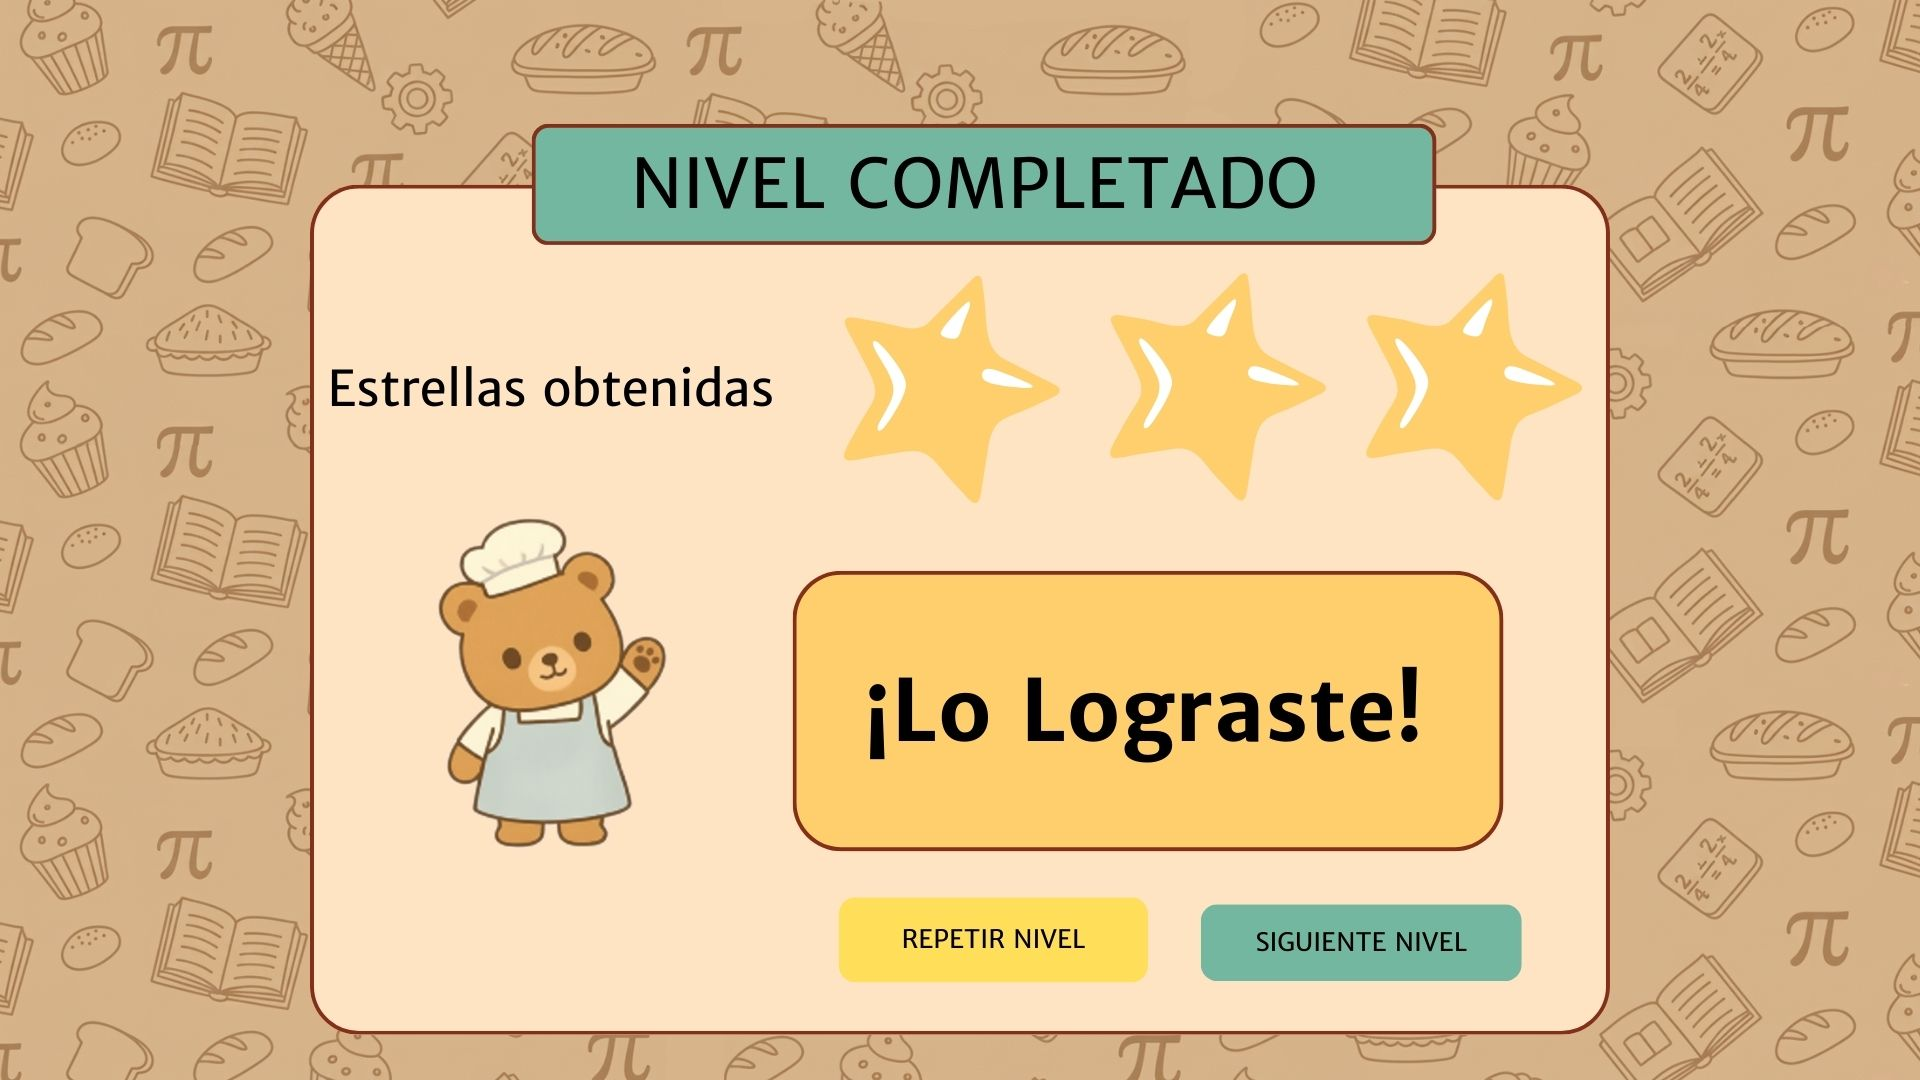
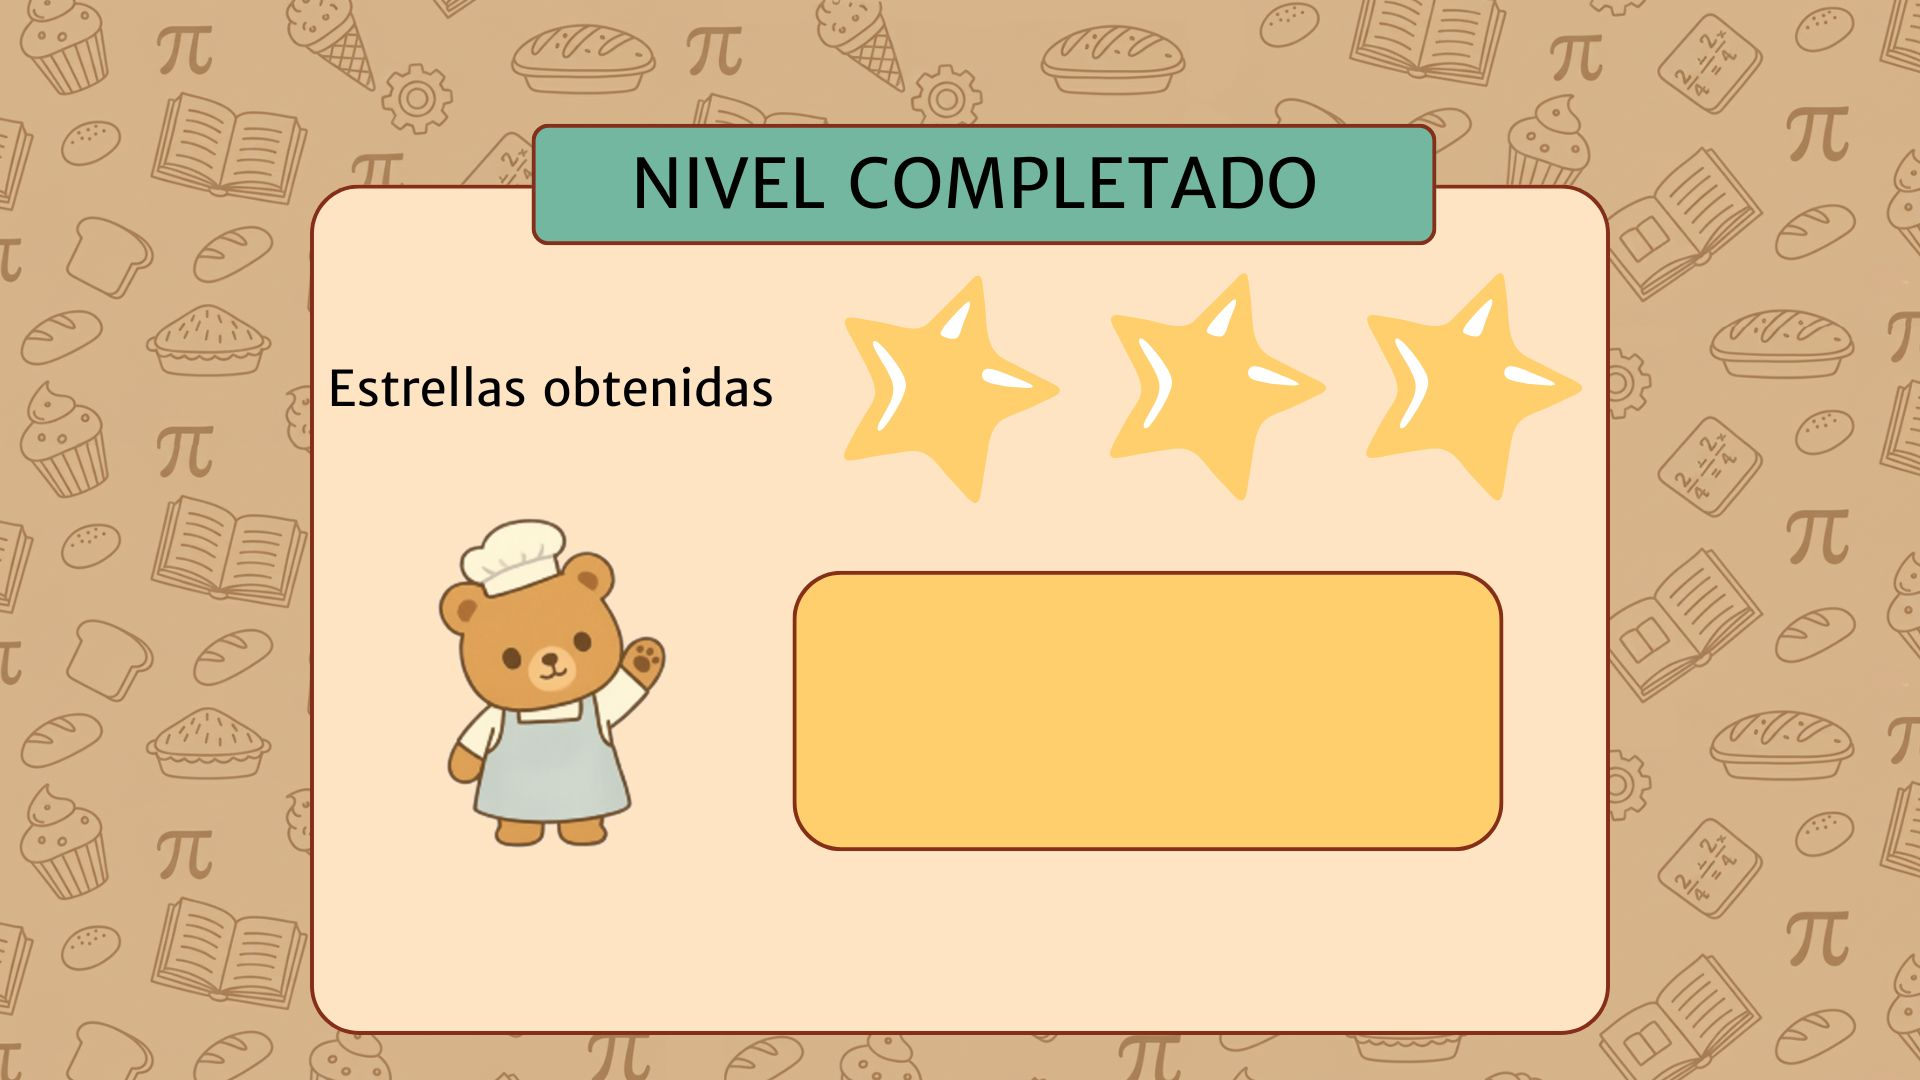
se implementan la logica de carga de niveles de la segunda dimension, ya los botones funcionan

Changed region(s): [[0.4375, 0.825, 0.8125, 0.9167], [0.4375, 0.6111, 0.75, 0.7028]]

diff --git a/proyecto_COIL/src/com/panaderiamatemagica/juego/vista/Dimension2Vista.java b/proyecto_COIL/src/com/panaderiamatemagica/juego/vista/Dimension2Vista.java
@@ -84,8 +84,30 @@ public class Dimension2Vista extends javax.swing.JPanel {
      */
     public void inicializarDimension(RouterControlador router, DimensionModelo modelo,
             ArrayList<ArrayList<EjercicioModelo>> niveles) {
+        
         this.controlador = new DimensionControlador(router, modelo, this, niveles);
         this.controlador.setDimensionId(2); // Configurar como Dimensión 2
+    }
+    
+        private void iniciarNivelSeguro(int nivelIndex) {
+
+        if (controlador == null) {
+            // Esto fuerza la re-ejecución del flujo de inicialización 
+            // (RouterControlador.iniciarDimension1()), que establece 'this.controlador'.
+            System.err.println("Advertencia: DimensionControlador es nulo. Forzando re-inicialización.");
+            router.iniciarDimension2(); 
+        }
+
+        // Una vez inicializado (o si ya lo estaba), se llama al método real
+        if (controlador != null) {
+            controlador.iniciarNivel(nivelIndex);
+        } else {
+            // En caso de fallo de inicialización
+            javax.swing.JOptionPane.showMessageDialog(this,
+                    "Error fatal: El controlador de dimensión no pudo ser inicializado. Reinicie la aplicación.",
+                    "Error de Inicialización",
+                    javax.swing.JOptionPane.ERROR_MESSAGE);
+        }
     }
 
     /**
@@ -480,11 +502,11 @@ public class Dimension2Vista extends javax.swing.JPanel {
     }// </editor-fold>//GEN-END:initComponents
 
     private void b6ActionPerformed(java.awt.event.ActionEvent evt) {//GEN-FIRST:event_b6ActionPerformed
-        // TODO add your handling code here:
+        iniciarNivelSeguro(5);
     }//GEN-LAST:event_b6ActionPerformed
 
     private void b4ActionPerformed(java.awt.event.ActionEvent evt) {//GEN-FIRST:event_b4ActionPerformed
-        // TODO add your handling code here:
+        iniciarNivelSeguro(3);
     }//GEN-LAST:event_b4ActionPerformed
 
     private void volverActionPerformed(java.awt.event.ActionEvent evt) {//GEN-FIRST:event_volverActionPerformed
@@ -492,113 +514,113 @@ public class Dimension2Vista extends javax.swing.JPanel {
     }//GEN-LAST:event_volverActionPerformed
 
     private void b7ActionPerformed(java.awt.event.ActionEvent evt) {//GEN-FIRST:event_b7ActionPerformed
-        // TODO add your handling code here:
+        iniciarNivelSeguro(6);
     }//GEN-LAST:event_b7ActionPerformed
 
     private void b13ActionPerformed(java.awt.event.ActionEvent evt) {//GEN-FIRST:event_b13ActionPerformed
-        // TODO add your handling code here:
+        iniciarNivelSeguro(12);
     }//GEN-LAST:event_b13ActionPerformed
 
     private void b19ActionPerformed(java.awt.event.ActionEvent evt) {//GEN-FIRST:event_b19ActionPerformed
-        // TODO add your handling code here:
+        iniciarNivelSeguro(18);
     }//GEN-LAST:event_b19ActionPerformed
 
     private void b25ActionPerformed(java.awt.event.ActionEvent evt) {//GEN-FIRST:event_b25ActionPerformed
-        // TODO add your handling code here:
+        iniciarNivelSeguro(24);
     }//GEN-LAST:event_b25ActionPerformed
 
     private void b8ActionPerformed(java.awt.event.ActionEvent evt) {//GEN-FIRST:event_b8ActionPerformed
-        // TODO add your handling code here:
+        iniciarNivelSeguro(7);
     }//GEN-LAST:event_b8ActionPerformed
 
     private void b9ActionPerformed(java.awt.event.ActionEvent evt) {//GEN-FIRST:event_b9ActionPerformed
-        // TODO add your handling code here:
+        iniciarNivelSeguro(8);
     }//GEN-LAST:event_b9ActionPerformed
 
     private void b10ActionPerformed(java.awt.event.ActionEvent evt) {//GEN-FIRST:event_b10ActionPerformed
-        // TODO add your handling code here:
+        iniciarNivelSeguro(9);
     }//GEN-LAST:event_b10ActionPerformed
 
     private void b11ActionPerformed(java.awt.event.ActionEvent evt) {//GEN-FIRST:event_b11ActionPerformed
-        // TODO add your handling code here:
+        iniciarNivelSeguro(10);
     }//GEN-LAST:event_b11ActionPerformed
 
     private void b12ActionPerformed(java.awt.event.ActionEvent evt) {//GEN-FIRST:event_b12ActionPerformed
-        // TODO add your handling code here:
+        iniciarNivelSeguro(11);
     }//GEN-LAST:event_b12ActionPerformed
 
     private void b14ActionPerformed(java.awt.event.ActionEvent evt) {//GEN-FIRST:event_b14ActionPerformed
-        // TODO add your handling code here:
+        iniciarNivelSeguro(13);
     }//GEN-LAST:event_b14ActionPerformed
 
     private void b15ActionPerformed(java.awt.event.ActionEvent evt) {//GEN-FIRST:event_b15ActionPerformed
-        // TODO add your handling code here:
+        iniciarNivelSeguro(14);
     }//GEN-LAST:event_b15ActionPerformed
 
     private void b16ActionPerformed(java.awt.event.ActionEvent evt) {//GEN-FIRST:event_b16ActionPerformed
-        // TODO add your handling code here:
+        iniciarNivelSeguro(15);
     }//GEN-LAST:event_b16ActionPerformed
 
     private void b17ActionPerformed(java.awt.event.ActionEvent evt) {//GEN-FIRST:event_b17ActionPerformed
-        // TODO add your handling code here:
+        iniciarNivelSeguro(16);
     }//GEN-LAST:event_b17ActionPerformed
 
     private void b18ActionPerformed(java.awt.event.ActionEvent evt) {//GEN-FIRST:event_b18ActionPerformed
-        // TODO add your handling code here:
+        iniciarNivelSeguro(17);
     }//GEN-LAST:event_b18ActionPerformed
 
     private void b20ActionPerformed(java.awt.event.ActionEvent evt) {//GEN-FIRST:event_b20ActionPerformed
-        // TODO add your handling code here:
+        iniciarNivelSeguro(19);
     }//GEN-LAST:event_b20ActionPerformed
 
     private void b21ActionPerformed(java.awt.event.ActionEvent evt) {//GEN-FIRST:event_b21ActionPerformed
-        // TODO add your handling code here:
+        iniciarNivelSeguro(20);
     }//GEN-LAST:event_b21ActionPerformed
 
     private void b22ActionPerformed(java.awt.event.ActionEvent evt) {//GEN-FIRST:event_b22ActionPerformed
-        // TODO add your handling code here:
+        iniciarNivelSeguro(21);
     }//GEN-LAST:event_b22ActionPerformed
 
     private void b23ActionPerformed(java.awt.event.ActionEvent evt) {//GEN-FIRST:event_b23ActionPerformed
-        // TODO add your handling code here:
+        iniciarNivelSeguro(22);
     }//GEN-LAST:event_b23ActionPerformed
 
     private void b24ActionPerformed(java.awt.event.ActionEvent evt) {//GEN-FIRST:event_b24ActionPerformed
-        // TODO add your handling code here:
+        iniciarNivelSeguro(23);
     }//GEN-LAST:event_b24ActionPerformed
 
     private void b26ActionPerformed(java.awt.event.ActionEvent evt) {//GEN-FIRST:event_b26ActionPerformed
-        // TODO add your handling code here:
+        iniciarNivelSeguro(25);
     }//GEN-LAST:event_b26ActionPerformed
 
     private void b27ActionPerformed(java.awt.event.ActionEvent evt) {//GEN-FIRST:event_b27ActionPerformed
-        // TODO add your handling code here:
+        iniciarNivelSeguro(26);
     }//GEN-LAST:event_b27ActionPerformed
 
     private void b28ActionPerformed(java.awt.event.ActionEvent evt) {//GEN-FIRST:event_b28ActionPerformed
-        // TODO add your handling code here:
+        iniciarNivelSeguro(27);
     }//GEN-LAST:event_b28ActionPerformed
 
     private void b29ActionPerformed(java.awt.event.ActionEvent evt) {//GEN-FIRST:event_b29ActionPerformed
-        // TODO add your handling code here:
+        iniciarNivelSeguro(28);
     }//GEN-LAST:event_b29ActionPerformed
 
     private void b30ActionPerformed(java.awt.event.ActionEvent evt) {//GEN-FIRST:event_b30ActionPerformed
-        // TODO add your handling code here:
+        iniciarNivelSeguro(29);
     }//GEN-LAST:event_b30ActionPerformed
 
     private void b5ActionPerformed(java.awt.event.ActionEvent evt) {//GEN-FIRST:event_b5ActionPerformed
-        // TODO add your handling code here:
+        iniciarNivelSeguro(4);
     }//GEN-LAST:event_b5ActionPerformed
 
     private void b1ActionPerformed(java.awt.event.ActionEvent evt) {                                   
-        controlador.iniciarNivel(0);
+        iniciarNivelSeguro(0);
     }
     private void b2ActionPerformed(java.awt.event.ActionEvent evt) {                                   
-        controlador.iniciarNivel(1);
+        iniciarNivelSeguro(1);
     }
     private void b3ActionPerformed(java.awt.event.ActionEvent evt) {                                   
-        controlador.iniciarNivel(2);
+        iniciarNivelSeguro(2);
     }      
     
     private void jButton1ActionPerformed(java.awt.event.ActionEvent evt) {// GEN-FIRST:event_jButton1ActionPerformed

diff --git a/proyecto_COIL/src/com/panaderiamatemagica/juego/vista/ResultadoVista.java b/proyecto_COIL/src/com/panaderiamatemagica/juego/vista/ResultadoVista.java
@@ -14,7 +14,7 @@ import net.miginfocom.swing.MigLayout;
  */
 public class ResultadoVista extends javax.swing.JPanel {
     private RouterControlador router;
-
+    private FondoPanel fondoPanel;
     /**
      * Creates new form ResultadoVista
      */
@@ -22,7 +22,7 @@ public class ResultadoVista extends javax.swing.JPanel {
         this.router = router;
         initComponents();
         
-         FondoPanel fondoPanel = new FondoPanel("resultados.jpg");
+         fondoPanel = new FondoPanel("resultados.jpg");
     fondoPanel.setLayout(new MigLayout("fill, insets 0", "[grow]", "[grow]"));
     
     // Configurar MigLayout en este panel principal
@@ -35,6 +35,10 @@ public class ResultadoVista extends javax.swing.JPanel {
     remove(jButton1);
     
     fondoPanel.add(jButton1, "pos 20% 83.50%, w 300:300:300, h 65:65:65");
+    fondoPanel.add(jButton2, "pos 40% 83.50%, w 300:300:300, h 65:65:65");
+    fondoPanel.add(jButton3, "pos 60% 83.50%, w 300:300:300, h 65:65:65");
+    fondoPanel.add(jLabel1, "pos 40.42% 62.79%, w 600:600:600, h 50:50:50");
+    fondoPanel.add(jPanel1, "pos 42.42% 25.02%, w 220:220:220, h 230:230:230");
     }
 
     /**
@@ -50,6 +54,8 @@ public class ResultadoVista extends javax.swing.JPanel {
         jButton1 = new javax.swing.JButton();
         jButton2 = new javax.swing.JButton();
         jButton3 = new javax.swing.JButton();
+        jLabel1 = new javax.swing.JLabel();
+        jPanel1 = new javax.swing.JPanel();
         jLabelReescalable1 = new com.panaderiamatemagica.core.visual.componentes.JLabelReescalable();
 
         setBackground(new java.awt.Color(255, 204, 204));
@@ -74,7 +80,7 @@ public class ResultadoVista extends javax.swing.JPanel {
                 jButton2ActionPerformed(evt);
             }
         });
-        add(jButton2, new org.netbeans.lib.awtextra.AbsoluteConstraints(330, 20, 206, 65));
+        add(jButton2, new org.netbeans.lib.awtextra.AbsoluteConstraints(360, 520, 190, 40));
 
         jButton3.setBackground(new java.awt.Color(0, 255, 0));
         jButton3.setForeground(new java.awt.Color(0, 0, 0));
@@ -84,7 +90,16 @@ public class ResultadoVista extends javax.swing.JPanel {
                 jButton3ActionPerformed(evt);
             }
         });
-        add(jButton3, new org.netbeans.lib.awtextra.AbsoluteConstraints(597, 20, 205, 65));
+        add(jButton3, new org.netbeans.lib.awtextra.AbsoluteConstraints(570, 520, 170, 40));
+
+        jLabel1.setFont(new java.awt.Font("Segoe UI", 1, 56)); // NOI18N
+        jLabel1.setForeground(new java.awt.Color(0, 0, 0));
+        jLabel1.setHorizontalAlignment(javax.swing.SwingConstants.CENTER);
+        jLabel1.setText("¡LO LOGRASTE!");
+        add(jLabel1, new org.netbeans.lib.awtextra.AbsoluteConstraints(320, 380, 380, 50));
+
+        jPanel1.setBackground(new java.awt.Color(255, 228, 196));
+        add(jPanel1, new org.netbeans.lib.awtextra.AbsoluteConstraints(370, 160, 330, 130));
 
         jLabelReescalable1.setIcon(new javax.swing.ImageIcon(getClass().getResource("/images/resultados.jpg"))); // NOI18N
         jLabelReescalable1.setText("jLabelReescalable1");
@@ -129,31 +144,40 @@ public class ResultadoVista extends javax.swing.JPanel {
                 estrellasTexto += "☆ ";
             }
         }
-        /*
+
         jLabel1.setText(estrellasTexto);
 
         // Actualizar mensaje según estrellas
         if (estrellas == 3) {
-            jLabel3.setText("¡PERFECTO! ¡MAESTRO PANADERO!");
-            jLabel3.setForeground(new java.awt.Color(255, 215, 0)); // Dorado
+            jLabel1.setText("¡PERFECTO! ¡MAESTRO PANADERO!");
+            jLabel1.setForeground(new java.awt.Color(0, 255, 0)); // Dorado
+            jLabel1.setFont(jLabel1.getFont().deriveFont(30f));
+            
+            remove(jPanel1);
+            fondoPanel.add(jPanel1, "pos 42.42% 25.02%, w 0:0:0, h 230:230:230");
         } else if (estrellas == 2) {
-            jLabel3.setText("¡MUY BIEN! ¡Sigue así!");
-            jLabel3.setForeground(new java.awt.Color(192, 192, 192)); // Plateado
+            jLabel1.setText("¡MUY BIEN! ¡Sigue así!");
+            jLabel1.setForeground(new java.awt.Color(192, 192, 192)); // Plateado
+            jLabel1.setFont(jLabel1.getFont().deriveFont(30f));
+            
+            remove(jPanel1);
+            fondoPanel.add(jPanel1, "pos 42.42% 25.02%, w 220:220:220, h 230:230:230");
+            
         } else if (estrellas == 1) {
-            jLabel3.setText("¡BUEN INTENTO! Puedes mejorar");
-            jLabel3.setForeground(new java.awt.Color(205, 127, 50)); // Bronce
+            jLabel1.setText("¡BUEN INTENTO! Puedes mejorar");
+            jLabel1.setForeground(new java.awt.Color(205, 127, 50)); // Bronce
+            jLabel1.setFont(jLabel1.getFont().deriveFont(30f));
+            
+            remove(jPanel1);
+            fondoPanel.add(jPanel1, "pos 42.42% 25.02%, w 450:450:450, h 230:230:230");
         } else {
-            jLabel3.setText("INTÉNTALO DE NUEVO");
-            jLabel3.setForeground(new java.awt.Color(255, 0, 0)); // Rojo
+            jLabel1.setText("INTÉNTALO DE NUEVO");
+            jLabel1.setForeground(new java.awt.Color(255, 0, 0)); // Rojo
+            jLabel1.setFont(jLabel1.getFont().deriveFont(40f));
+            
+            remove(jPanel1);
+            fondoPanel.add(jPanel1, "pos 42.42% 25.02%, w 650:650:650, h 230:230:230");
         }
-
-        // Actualizar label de título con estadísticas
-        jLabel2.setText(String.format(
-                "<html><center>NIVEL COMPLETADO<br/>" +
-                        "🍪 +%d Galletas<br/>" +
-                        "✓ %d Aciertos | ✗ %d Errores<br/>" +
-                        "❤ %d Vidas restantes</center></html>",
-                galletas, aciertos, desaciertos, vidasRestantes));
 
         // Deshabilitar botón "Siguiente Nivel" si no obtuvo al menos 1 estrella
         if (estrellas < 1) {
@@ -166,12 +190,14 @@ public class ResultadoVista extends javax.swing.JPanel {
             jButton3.setText("SIGUIENTE NIVEL");
         }
     }
-*/
-    }
+
+    
     // Variables declaration - do not modify//GEN-BEGIN:variables
     private javax.swing.JButton jButton1;
     private javax.swing.JButton jButton2;
     private javax.swing.JButton jButton3;
+    private javax.swing.JLabel jLabel1;
     private com.panaderiamatemagica.core.visual.componentes.JLabelReescalable jLabelReescalable1;
+    private javax.swing.JPanel jPanel1;
     // End of variables declaration//GEN-END:variables
 }
